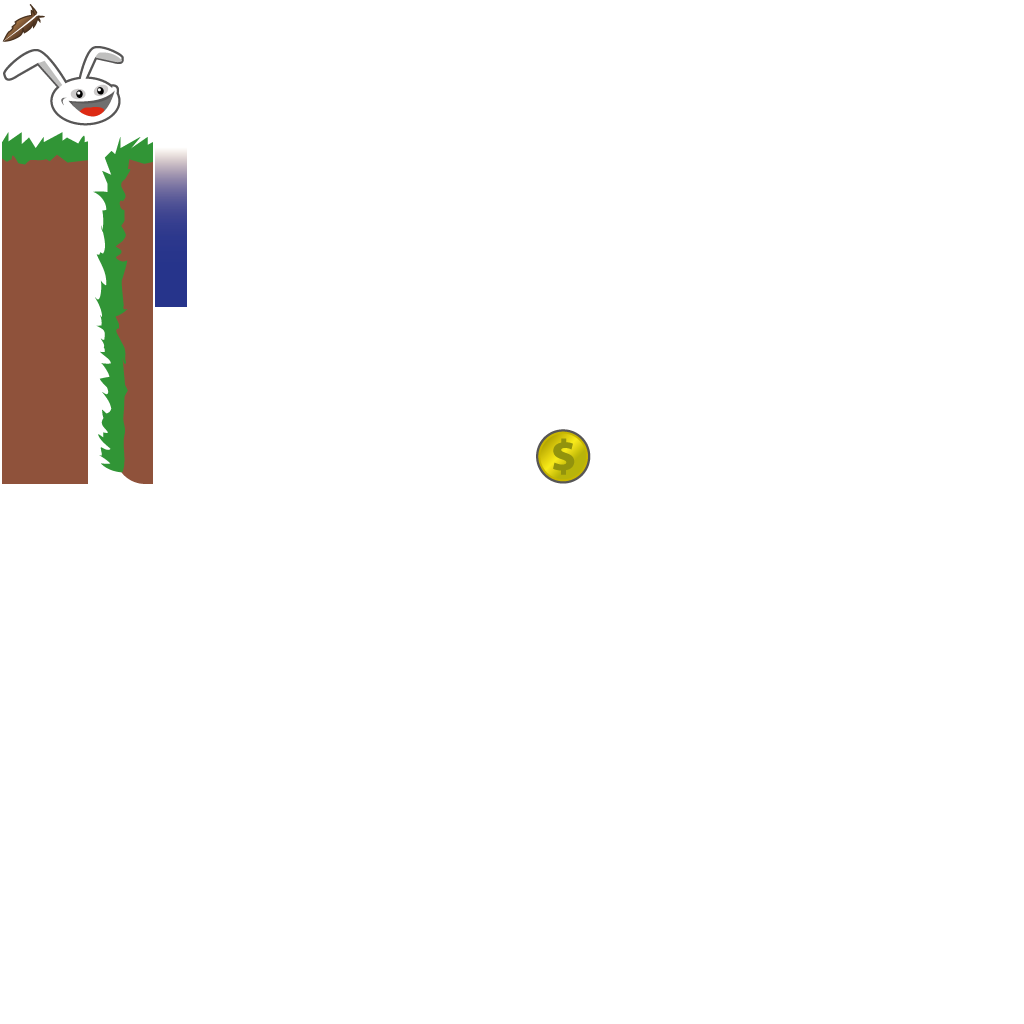
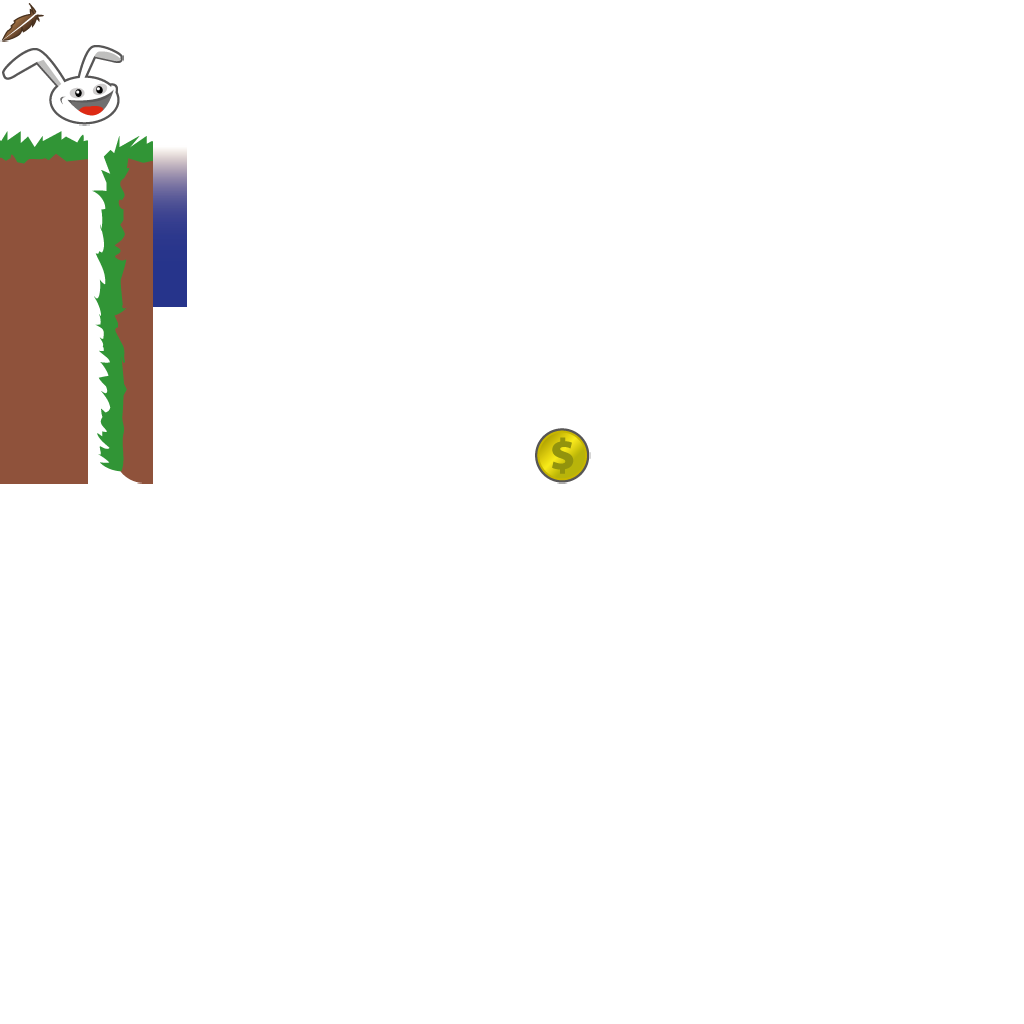
fix the small gap between textures - set paddingDuplicate to true to fix this.

diff --git a/CanyonBunny-desktop/src/com/packtpub/libgdx/CanyonBunny/Main.java b/CanyonBunny-desktop/src/com/packtpub/libgdx/CanyonBunny/Main.java
@@ -4,12 +4,13 @@ import java.io.File;
 import java.nio.file.FileSystem;
 import com.badlogic.gdx.backends.lwjgl.LwjglApplication;
 import com.badlogic.gdx.backends.lwjgl.LwjglApplicationConfiguration;
+import com.badlogic.gdx.graphics.Texture.TextureFilter;
 import com.badlogic.gdx.tools.texturepacker.TexturePacker;
 import com.badlogic.gdx.tools.texturepacker.TexturePacker.Settings;
 
 public class Main {
 	
-	private static boolean rebuildAltas = false;
+	private static boolean rebuildAltas = true;
 	private static boolean drawDebugOutline = false;
 	
 	private static void deleteFile(String filename) {
@@ -26,6 +27,9 @@ public class Main {
 			Settings settings = new Settings();
 			settings.maxHeight = 1024;
 			settings.maxWidth = 1024;
+			settings.filterMin = TextureFilter.Linear;
+			settings.filterMag = TextureFilter.Linear;
+			settings.duplicatePadding = true;
 			settings.debug = drawDebugOutline;
 			TexturePacker.process(settings, "assets-raw/images",
 					"../CanyonBunny-android/assets/images", "canyonbunny.pack");

diff --git a/CanyonBunny/src/com/packtpub/libgdx/CanyonBunny/Game/Objects/Rock.java b/CanyonBunny/src/com/packtpub/libgdx/CanyonBunny/Game/Objects/Rock.java
@@ -26,7 +26,7 @@ public class Rock extends AbstractGameObject {
 		this.length = length;
 		// update bounding box for collision detection
 		bounds.set(0, 0, length, dimension.y);
-		Gdx.app.debug("Rock", "dimension: (" + dimension.x + ", " + dimension.y + ")");
+		//Gdx.app.debug("Rock", "dimension: (" + dimension.x + ", " + dimension.y + ")");
 	}
 	
 	public void increaseLength(int amount) {
